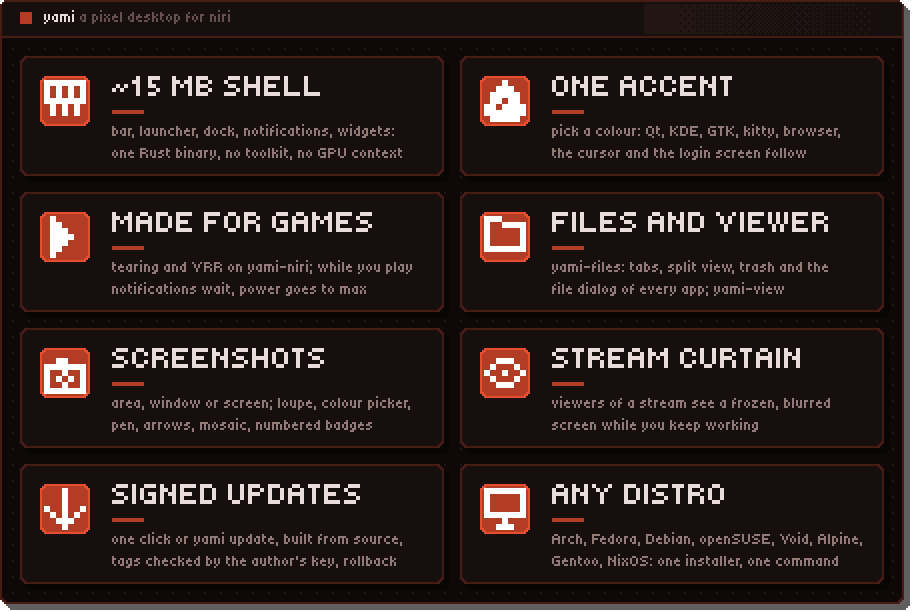
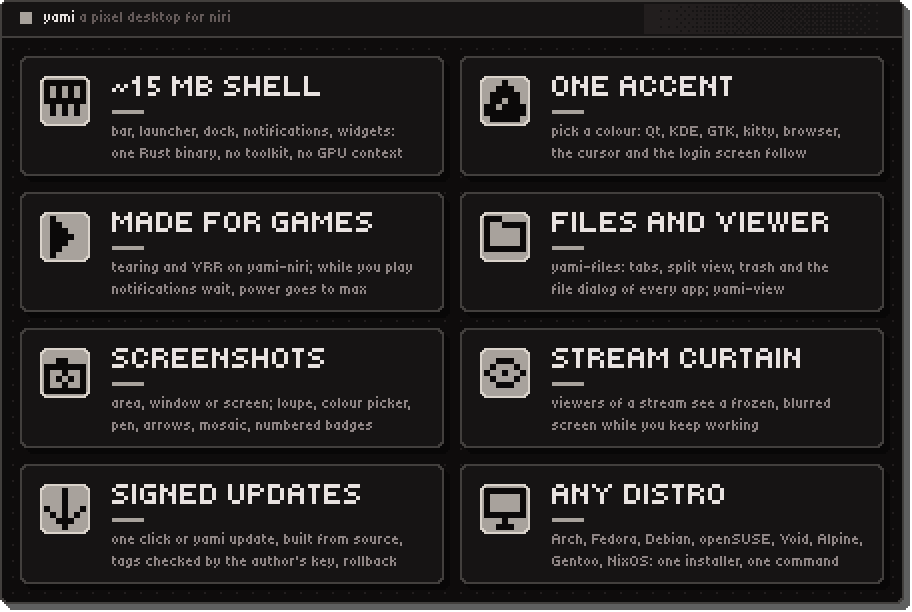
README: the header in ash
The logo, badges and feature panel go back to the ash palette, like the
plain desktop under the demo.

diff --git a/README.ru.md b/README.ru.md
@@ -6,11 +6,11 @@
 
 Пиксельный рабочий стол для niri — целыми пикселями.
 
-[![Release](https://img.shields.io/github/v/release/Trendorin/yami?label=release&color=b23c24)](https://github.com/Trendorin/yami/releases/latest)
-[![License](https://img.shields.io/badge/license-MIT-b23c24)](LICENSE)
-![Rust](https://img.shields.io/badge/rust-1.89%2B-b23c24)
-![niri](https://img.shields.io/badge/niri-26.04-b23c24)
-![Platform](https://img.shields.io/badge/platform-Linux%20%C2%B7%20Wayland-b23c24)
+[![Release](https://img.shields.io/github/v/release/Trendorin/yami?label=release&color=a8a29c)](https://github.com/Trendorin/yami/releases/latest)
+[![License](https://img.shields.io/badge/license-MIT-a8a29c)](LICENSE)
+![Rust](https://img.shields.io/badge/rust-1.89%2B-a8a29c)
+![niri](https://img.shields.io/badge/niri-26.04-a8a29c)
+![Platform](https://img.shields.io/badge/platform-Linux%20%C2%B7%20Wayland-a8a29c)
 
 [Установка](#установка) · [Скриншоты](#скриншоты) · [Настройки](docs/CONFIG.md) · [Изменения](CHANGELOG.md) · [English](README.md)
 

diff --git a/README.md b/README.md
@@ -6,11 +6,11 @@
 
 A pixel-art desktop for niri, drawn in whole pixels.
 
-[![Release](https://img.shields.io/github/v/release/Trendorin/yami?label=release&color=b23c24)](https://github.com/Trendorin/yami/releases/latest)
-[![License](https://img.shields.io/badge/license-MIT-b23c24)](LICENSE)
-![Rust](https://img.shields.io/badge/rust-1.89%2B-b23c24)
-![niri](https://img.shields.io/badge/niri-26.04-b23c24)
-![Platform](https://img.shields.io/badge/platform-Linux%20%C2%B7%20Wayland-b23c24)
+[![Release](https://img.shields.io/github/v/release/Trendorin/yami?label=release&color=a8a29c)](https://github.com/Trendorin/yami/releases/latest)
+[![License](https://img.shields.io/badge/license-MIT-a8a29c)](LICENSE)
+![Rust](https://img.shields.io/badge/rust-1.89%2B-a8a29c)
+![niri](https://img.shields.io/badge/niri-26.04-a8a29c)
+![Platform](https://img.shields.io/badge/platform-Linux%20%C2%B7%20Wayland-a8a29c)
 
 [Install](#installation) · [Screenshots](#screenshots) · [Settings](docs/CONFIG.md) · [Changelog](CHANGELOG.md) · [Русский](README.ru.md)
 
